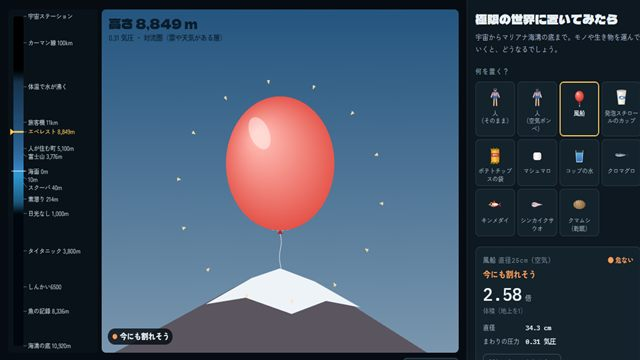
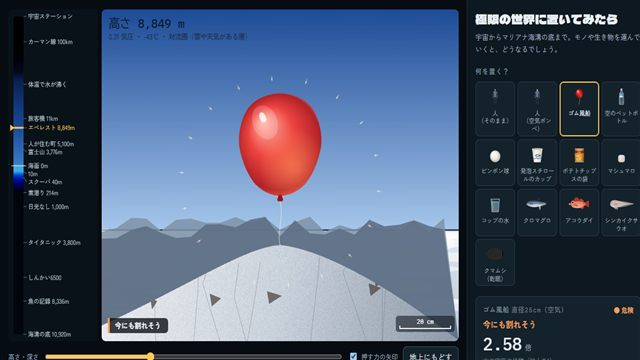
extreme v002: 実寸で質感のある絵・海の色の吸収とライト、ペットボトル・ピンポン球・アコウダイ、海の圧力の式と説明の見直し

diff --git a/extreme/launcher.html b/extreme/launcher.html
@@ -38,13 +38,15 @@ td a{color:var(--ink)}
     <h2>ターニングポイント</h2>
     <div class="cards">
       <a class="card latest" href="index.html"><span class="ver">最新</span><div><b>作業中の最新版<span class="tag">LATEST</span></b><p>いま作業フォルダにある index.html。</p></div><span class="date">—</span></a>
+      <a class="card" href="versions/v002-real/index.html"><span class="ver">v2</span><div><b>リアルな見た目と見直し</b>
+        <p>モノを実物の寸法で描き、スケールを表示。海の中は色ごとの光の吸収（赤から消える）と、深い所は潜水艇のライト。宇宙から見た地球の丸みと大気の層。空のペットボトル・ピンポン球を追加、キンメダイをアコウダイ（メヌケ）に。海の圧力を Saunders の式に（海溝の底 約1,110気圧）。素潜りの肺の小窓、体全体にかかる力。</p></div><span class="date">2026-10-06</span></a>
       <a class="card" href="versions/v001-first/index.html"><span class="ver">v1</span><div><b>最初の版（段階A）</b>
         <p>宇宙（400km）からマリアナ海溝の底（10,920m）までを1本のものさしにして、人（そのまま・空気ボンベ）・風船・発泡スチロールのカップ・ポテトチップスの袋・マシュマロ・コップの水・クロマグロ・キンメダイ・シンカイクサウオ・クマムシの11種を運ぶ。標準大気・水圧・水が沸く温度・気体の体積。割れた・縮んだを覚えている。</p></div><span class="date">2026-10-06</span></a>
     </div>
   </section>
   <section>
     <h2>すべてのバックアップ</h2>
-    <table><tr><td>v001-first</td><td><a href="versions/v001-first/index.html">v1 完成時点</a></td></tr></table>
+    <table><tr><td>v001-first</td><td><a href="versions/v001-first/index.html">v1 完成時点（v2 で手を入れる前もこれと同じ）</a></td></tr><tr><td>v002-real</td><td><a href="versions/v002-real/index.html">リアルな見た目、ペットボトル・ピンポン球・アコウダイ、海の圧力の式、説明の見直し</a></td></tr></table>
   </section>
 </main>
 </body>

diff --git a/extreme/DEVNOTES.md b/extreme/DEVNOTES.md
@@ -5,65 +5,79 @@
 宇宙（400km）からマリアナ海溝の底（10,920m）までを1本のものさしにして、モノ・生き物を運び、どうなるかを見るアプリ。企画は `PLAN.md`（`../IDEAS.md` のストック2から）。Canvas 2D、css/js に分割。
 
 ## 別セッションで続けるとき（まずここ）
-- **いまの状態**: 最新は v1（`versions/v001-first`、段階A）。入口「まなびラボ」の「物理」に載せた（サムネイル `thumbs/extreme.jpg`）。GitHub Pages には push で公開される（push はユーザー）。Artifact には公開していない。
+- **いまの状態**: 最新は v2（`versions/v002-real`、リアルな見た目と事実の見直し）。v1（`versions/v001-first`）が段階Aの最初の版。入口「まなびラボ」の「物理」に載せた（サムネイル `thumbs/extreme.jpg`）。GitHub Pages には push で公開される（push はユーザー）。Artifact には公開していない。
 - **次にやること**: ユーザーの感想しだい。次の段階は `PLAN.md` の段階B（時間をかけて置く: 減圧症・高所順応、砂漠と寒さ、宇宙に長くいるとき）。
-- **読む順**: `../RULES.md` → このファイル → 下の「ファイル構成」で関係するファイルだけ。モノを足す・直すなら `js/things.js` だけ（絵は `js/draw.js` の `drawThing()` の表に足す）。
+- **読む順**: `../RULES.md` → このファイル → 下の「ファイル構成」で関係するファイルだけ。モノの中身（数値・文章）は `js/things.js`、絵は `js/draw.js` の `drawThing()` の表と各 `drawXxx()`。
 - **動かし方**: ユーザーはルートの `start.bat`。Claude は `.claude/launch.json` の `apps`〜`apps-4`（8765〜8768）のどれか空いているもので `http://localhost:<port>/extreme/`。
-- **デバッグ用**: `window.__ex` — `S`（`z` いまの高さ m、`zTarget`、`key`、`mem` モノの記憶）、`setThing(key)`、`go(z, true)`（一気に運ぶ。途中も通す）、`goTo(z)` と `advance(秒)`（Browser ペインが裏だと rAF が止まるので、これで進める）、`state()`、`envAt(z)`、`err`（例外。`window.__exErr`）。
+- **デバッグ用**: `window.__ex` — `S`（`z` いまの高さ m、`zTarget`、`key`、`mem` モノの記憶、`arrows`）、`setThing(key)`、`go(z, true)`（一気に運ぶ。途中も通す）、`goTo(z)` と `advance(秒)`（Browser ペインが裏だと rAF が止まり、画面の大きさも 0 になるので、確かめるときは `resize_window` で大きさを決めてから）、`state()`、`envAt(z)`、`err`（例外。`window.__exErr`）。`waterLook(d)` で海の色とモノにかける色。
 - **区切りごとに**: ① `versions/v0NN-名前/` に index.html・css・js を丸ごとコピー ② `launcher.html` にカード・表 ③ 下の「状態」 ④ 「確認のしかた」を通す ⑤ 公開前チェック → コミット（push はユーザー）。中身を変えたら入口 `../index.html` のカードの更新日も。
-- **ユーザーの好み**: 正確さ重視（記録／計算／推定を書き分ける）。ちょっと危ない・意外なモノが選べると楽しい。子どもにも読める日本語。
+- **ユーザーの好み**: 正確さ重視（記録／計算／推定を書き分ける）。**子ども向けすぎる絵はいや**（v2 で実寸・質感のある絵に。マンガ的な擬音や記号は使わない）。「深海はギュッとつぶれる」感覚がある → 気体の入った入れ物がつぶれる様子と、体全体にかかる力の数字で見せる。ちょっと危ない・意外なモノが選べると楽しい。日本語。
 
 ## ファイル構成
 
 | ファイル | 中身 | 主な名前 |
 |---|---|---|
-| `index.html` | 骨組み（doctype なし）と解説。読み込み順: world → things → draw → ui → main | `#view` `#zRange` `#btnHome` `#things` `#readout`（`#roVerdict` `#roVal` `#roGrid`）`#notes` `#place`（`#plGrid`）`#places` |
-| `css/style.css` | レイアウト（PC は右パネル360px。縦長スマホは絵を上に固定。横向きスマホは右300px）。air-flow と同じ作り | 危険度の色 `--l0`〜`--l3` |
-| `js/world.js` | 環境: 標準大気 `ISA` `THERMO` `airP()` `airT()`、海 `SEA_PPM` `SEA_T` `KD_SEA`、水の蒸気圧 `psat()` `boilAt()`、`zoneOf()`、**`envAt(z)`**、`altForPO2()`、ものさしの縮尺 `AXIS` `uOfZ()` `zOfU()`、目印 `MARKS` | `P0` `Z_TOP` `Z_BOT` `SEA_PO2` `interp()` |
-| `js/things.js` | モノ・生き物のモデル `THINGS`（HUMAN・DIVER・BALLOON・CUP・CHIPS・MARSH・WATER・TUNA・KINME・SNAIL・TARDI）。各 `model(env, mem)` が `{lvl, verdict, big, rows, notes, draw}` を返す。気体の体積 `gasRatio()`（窒素の圧縮係数 `ZAIR`）、意識を保てる時間 `TUC`、SpO2 `SPO2`、魚の共通 `fishModel()` | `f0` `f1` `f2` `fRatio` `fPlace` `fNear` `fAtm` |
-| `js/draw.js` | `fitCanvas()`、ものさし `drawStrip()`（目印は重ならないようずらす。押せる範囲 `CV.hits`）、景色 `drawScene()`（空・星・地球のふち・雲・山・海・マリンスノー・生き物の光・海溝の底）、押す力の矢印 `drawArrows()`、モノの絵 `drawThing()` と各 `drawHuman()` など、見本 `drawIcon()` | `CV` `placeCols()` `objCenter()` `NO_OUTLINE` |
-| `js/ui.js` | パネルを作る `buildUI()`、ものさしの操作 `bindCanvas()`、表示 `updatePanel()`（変わったときだけ書きかえる）、`fPa()` `fLight()` `fBoil()` | `LAST` |
+| `index.html` | 骨組み（doctype なし）と解説。読み込み順: world → things → draw → ui → main | `#view` `#zRange` `#optArrows` `#btnHome` `#things` `#readout`（`#roVerdict` `#roVal` `#roGrid`）`#notes` `#place`（`#plGrid`）`#places` |
+| `css/style.css` | レイアウト（PC は右パネル360px。縦長スマホは絵を上に固定し、スライダーは1行に。横向きスマホは右300px）。air-flow と同じ作り | 危険度の色 `--l0`〜`--l3` |
+| `js/world.js` | 環境: 標準大気 `ISA` `THERMO` `airP()` `airT()`、海の圧力 `seaP()`（Saunders）、水温 `SEA_T`、`KD_SEA`、水の蒸気圧 `psat()` `boilAt()`、`zoneOf()`、**`envAt(z)`**、`altForPO2()`、ものさしの縮尺 `AXIS` `uOfZ()` `zOfU()`、目印 `MARKS` | `P0` `Z_TOP` `Z_BOT` `SEA_PO2` `interp()` |
+| `js/things.js` | モノ・生き物のモデル `THINGS`（HUMAN・DIVER・BALLOON・BOTTLE・PINGPONG・CUP・CHIPS・MARSH・WATER・TUNA・AKOU・SNAIL・TARDI）。各 `model(env, mem)` が `{lvl, verdict, big, rows, notes, draw}` を返す。`ref` = 絵の大きさの基準（実物の m）。気体の体積 `gasRatio()`（窒素の圧縮係数 `ZAIR`）、意識を保てる時間 `TUC`、SpO2 `SPO2`、`BODY_AREA`、魚の共通 `fishModel()` | `f0` `f1` `f2` `fRatio` `fML` `fPlace` `fNear` `fAtm` |
+| `js/draw.js` | `fitCanvas()`、ものさし `drawStrip()`、空 `skyAt()` `drawSky()`（地平線の丸み・大気の層・雲・岸辺・山）、海 `waterLook()` `drawSea()`（色ごとの吸収・ライト・マリンスノー・海溝の底）、`drawScene()`（海の中はモノを別の画面 `CV.off` に描いて水の色をかける）、`drawHUD()`（場所・状態・スケール）、肺の小窓 `drawLungInset()`、矢印 `drawArrows()`、モノの絵 `drawThing()` と各 `drawHuman()` `drawBalloon()` `drawBottle()` `drawPingpong()` `drawCup()` `drawChips()` `drawMarsh()` `drawGlass()` `drawFish()`（`FISH` の輪郭）`drawTardi()`、見本 `drawIcon()` | `CV` `KW` `objFrame()` `spline()` `pat()` `NOISE` `BEADS` `NO_OUTLINE` |
+| `js/ui.js` | パネルを作る `buildUI()`、ものさしの操作 `bindCanvas()`、表示 `updatePanel()`（変わったときだけ書きかえる）、`fPa()` `fLight()` `fBoil()` | `LAST` `LVL_TXT` |
 | `js/main.js` | 状態 `S`、`passThrough()`（途中の場所を細かく通してモデルの記憶を更新）、`setThing()` `renewThing()` `goTo()` `step()` `render()`、ループ、`window.__ex` | `MOVE_U` `SUB_U` |
 
 ## しくみ
 
 ### 場所（`world.js`）
-- z（m）: + が空、− が海の深さ。z = 0 は海面（地上）。魚だけは z = 0 を水の中として扱う。
-- 空: U.S. Standard Atmosphere 1976 の層の式（86km まで）。86km より上は表（100km 3.2e-2 Pa … 400km 1.45e-6 Pa）を対数で補間。86km より上は気温を出さない。
-- 海: P = 101325 + 1025×9.80×深さ（密度一定。海溝の底で約1,084気圧、実測の約1,086 bar に近い）。水温はマリアナ海溝の近くの外洋の目安（表面27℃、1,000m 4℃、底 2.4℃）。明るさ exp(−0.023×深さ)（200m で 1%）。
+- z（m）: + が空、− が海の深さ。z = 0 は海面（地上）。魚だけは z = 0 を水の中として扱う（絵も海の中）。
+- 空: U.S. Standard Atmosphere 1976 の層の式（86km まで）。86km より上は表（100km 3.2e-2 Pa … 400km 1.45e-6 Pa）を対数で補間。86km より上は気温を出さない。エベレスト山頂の実測（33.7kPa）は標準大気（31.4kPa）より高いことを人の説明に書いた。
+- 海の圧力: Saunders (1981) の深さ→圧力の式（z = (1−c1)p − c2p²、緯度 11.35°N）を逆に解く。水深10m で 1.99 気圧、1,000m で 100.5、海溝の底で約1,113気圧。v1 の「密度一定」（約1,084気圧）から直した。
+- 水温はマリアナ海溝の近くの外洋の目安（表面27℃、1,000m 4℃、底 2.4℃）。明るさ exp(−0.023×深さ)（200m で 1%）。
 - 吸う空気の酸素分圧 = 0.2095 ×（気圧 − 体温の水蒸気 6.27kPa）。海面で 19.9kPa。
-- 水が沸く温度: Wagner–Pruss の飽和蒸気圧の式を二分法で逆に解く。611.657Pa（三重点）未満は「液体でいられない」、22.064MPa（臨界圧、約2,200m）以上は「沸かない」。
+- 水が沸く温度: Wagner–Pruss の飽和蒸気圧の式を二分法で逆に解く。611.657Pa（三重点）未満は「液体でいられない」、22.064MPa（臨界圧、約2,200m）以上は「沸かない（超臨界）」。
 - ものさしの縮尺 `AXIS`: 400→100km、100→20km、20→0km、0→300m（√で広げる）、300→10,920m の5区間。
 
 ### モノのモデル（`things.js`）
 - 閉じこめた気体の体積 = (1/気圧) × (T/288.15K) × Z(気圧)。Z は 0℃の窒素の測定値（1,000気圧で約1.94）。宇宙では 15℃ のまま。
-- 人（そのまま）: 空は SpO2 の目安・意識を保てる時間（FAA の表）・高山病の段階。気圧で体温37℃の水が沸く高さ（アームストロング限界、約19km）より上と宇宙は「約9〜12秒で意識を失う」。海は素潜り（肺 6L がボイルの法則で縮む。214m の記録）。
-- 人（空気ボンベ）: 空は酸素100%のマスク（`altForPO2()` で空気なら何mと同じか）。海はスクーバの空気（酸素分圧 1.4・1.6 気圧、窒素酔い 30m〜、空気の限界 90m）。
-- 風船: 体積 2.8 倍で割れる（推定。約9,600m）。体積が 0.33³ より小さいとゴムがたるんだ絵。
-- 発泡スチロールのカップ: 体積の 95% が泡、6気圧（約50m）より深いと泡の空気が押し縮められる。戻したあとの大きさ = いちばん縮んだ大きさ^0.8（実例の「半分くらい」に合わせた推定）。
-- ポテトチップスの袋: 窒素、袋の最大は 1.6 倍。中と外の差が 0.25 気圧で破れる（推定。約11,100m。エベレストでは「今にも破れそう」）。
+- 人（そのまま）: 空は SpO2 の目安・意識を保てる時間（FAA AC 61-107B の表。45,000ft 9〜15秒、50,000ft 6〜9秒まで）・高山病の段階。体温37℃の水が沸く高さ（約19km）より上と宇宙は「約10秒（資料により6〜15秒）」。海は素潜り（肺 6L がボイルの法則で縮む。残気量 1.5L より小さいと `squeeze` で胸が押しこまれる絵。214m の記録）。体全体にかかる力（1.8m²）も書く。
+- 人（空気ボンベ）: 空は酸素100%のマスク（`altForPO2()` で空気なら何mと同じか）。海はスクーバの空気（酸素分圧 1.4・1.6 気圧、窒素酔い 30m〜、90m より深いと「きわめて危険」）。服は高さ・気温でダウン、海ではウェットスーツ。
+- 風船: 体積 2.8 倍で割れる（推定。約9,600m）。体積 0.04 より小さいと、ゴムがたるんでしわの中に空気の玉が残る絵（海溝の底で中の空気は直径 3.0cm）。
+- 空のペットボトル（500mL・ふたをした）: 水の中では中の空気の体積までへこむ（下限 5%）。水深10m で 261mL、海溝の底で 0.89mL。戻すと形は戻り、折れじわ `crease` が残る。空・宇宙では中の1気圧が押すだけ。
+- ピンポン球: 中と外の差が 3.5 気圧（水深約36m）でへこむ（推定。うすい殻の座屈の計算 約13気圧に、形のゆがみで弱くなる分を見こんだ）。へこんだ後は中の空気の体積まで（下限 0.03）、戻しても 0.82 のまま。
+- 発泡スチロールのカップ: 体積の 95% が泡、6気圧（約50m）より深いと泡の空気が押し縮められる。戻したあとの大きさ = いちばん縮んだ大きさ^0.8（海溝の底 3.8cm → 戻して 4.6cm）。
+- ポテトチップスの袋: 窒素、袋の最大は 1.6 倍。中と外の差が 0.25 気圧で口が開く（推定。約11,100m）。水の中でしぼむとチップスの形が浮き出る絵。
 - マシュマロ: 泡 6割、泡が 3 倍で破れる（約10,100m）。破れた後は戻すと 0.55 倍のしわしわ。
-- コップの水（20℃）: 気圧が 20℃の蒸気圧 2.3kPa より低い（約25km より上）と沸く。三重点より低いと凍る。海では Tait の式で縮む（海溝の底で約4%）。
-- 魚: すむ深さ `range`。うきぶくろのある魚は、範囲の端の圧力 ÷ いまの圧力 でふくらみ、4倍以上で「胃が口から」。8,200m より深いと TMAO の限界の説で「すめない」。陸・宇宙では息ができない。
-- クマムシ（乾眠）: どこでも平気（宇宙10日・6,000気圧の記録）。
-- `mem`: いちばん高い・深い所、割れた場所 `burstZ`・`popZ`、カップの `cupMin`、水の `boiled`。モノを選び直す・「新しいものにとりかえる」と消え、地上から今の場所まで運び直す（途中で割れるものは割れる）。
+- コップの水（20℃）: 気圧が 2.3kPa より低い（約26km より上）と沸く。三重点より低いと凍る。海では Tait の式で縮む（海溝の底で約4%）。
+- 魚: すむ深さ `range`。うきぶくろのある魚は、範囲の端の圧力 ÷ いまの圧力 でふくらみ、4倍以上で「胃が口から」。アコウダイは目も飛び出す（`eyes`）。8,200m より深いと TMAO の限界の説で「すめない」。陸・宇宙では息ができない。クロマグロは 0〜550m（大西洋の仲間は 1,000m 超えの記録）、アコウダイ 300〜600m、シンカイクサウオ 6,000〜8,100m。
+- クマムシ（乾眠）: どこでも平気（宇宙10日・約6,000気圧の記録）。
+- `mem`: いちばん高い・深い所、割れた場所 `burstZ`・`popZ`・`buckleZ`、カップの `cupMin`、ボトルの `crease`、水の `boiled`。モノを選び直す・「新しいものにとりかえる」と消え、地上から今の場所まで運び直す（途中で割れるものは割れる）。
+
+### 絵（`draw.js`）
+- モノは実寸（m）で描く。`objFrame()` で `pm = 2R / ref`（R は画面の大きさから）。右下のスケールは 1・2・5 の切りのよい長さ。人・カップなどは足もと、魚とクマムシは中央が原点。
+- 海の中の色: 水が光を吸う強さ `KW` = 赤 0.40・緑 0.07・青 0.025 /m（澄んだ外洋の目安）。モノの色には、上から届く深さ d と見ている距離 1.5m の分の吸収を、いちばん残る色を1にして 0.35 乗（目の慣れ）したものをかける。明るさは青の届き方の 0.4 乗。150〜260m で潜水艇のライトに切りかえ（ライトは見る距離 1.5m の吸収だけ）。
+- 空: 天頂と地平線の色の表 `SKY_TAB`。地平線の見下ろす角度 `acos(R/(R+h))` から丸みを出す。9km より上は地球（海と雲）と大気のうすい層。星は 60km より上で少しだけ（写真では日なたの地球と星はふつう同時に写らないため控えめ）。
+- 点滅は入れない（生き物の光は小さな点がゆっくり明るくなって消える、泡は小さく流れるだけ）。
 
 ## ハマったところ
 - 移動を1コマ分まとめてモデルに渡すと、ドラッグで一気に宇宙へ行ったとき「割れた場所 400km」になる。`passThrough()` でものさしの 0.0005 刻みに途中を通す（割れた場所は 100m 単位の「約」で表示）。
-- Browser ペインが裏だと rAF が止まる。確認は `__ex.go()` と `__ex.advance()`。
+- Browser ペインが裏だと rAF が止まり、`innerWidth` が 0 になる。画面の大きさが小さすぎると `arcTo` に負の半径が入って止まった（`rr()` で 0 以上にした）。確かめるときは `resize_window` で大きさを決める。
+- sed で JS を書きかえたら改行が消えて、コメントの後ろにコードがつながった（RULES 6 のとおり、複数行は Edit で）。
+- 海の色を物理どおり（目の慣れなし）にすると、水深5m で赤い魚が真っ青になって不自然だった。0.35 乗の慣れを入れた。
 
 ## 確認のしかた（変更のたびに）
 1. 読み込み直後にエラーなし（`__ex.err` が undefined）。開いたときは風船・海面。
-2. 全部のモノを順に運ぶ: `for (const k of THINGS.map(t=>t.key)) { __ex.setThing(k); for (const z of [0,3776,8849,19500,400000,0,-10,-40,-214,-1000,-10920,0]) { const r=__ex.go(z,true); console.log(k,z,r.st.lvl,r.st.verdict); } }` → エラーなし。
-3. 目安（変えていなければ）: 風船は約9,600m で割れ、エベレストで体積 2.58 倍。袋は約11,100m で破れる。マシュマロは約10,100m で泡が破れ、地上で 0.55 倍。カップは海溝の底で 3.8cm、地上に戻して 4.6cm。人（そのまま）は富士山で酸素 60%・SpO2 86%、エベレストで 26%。キンメダイは水深10m でうきぶくろ 10.5 倍。水は富士山で 87℃、エベレストで 70℃ で沸く。
-4. ものさしの目印の名前を押すとそこへ運ぶ（`__ex.S.zTarget` が変わる）。帯のドラッグ・下のスライダーでも動く。
-5. 幅 375px（縦長）で絵が上に貼りつき、横スクロールなし（scrollWidth = 375）。
-6. 点滅なし（生き物の光は小さな点がゆっくり明るくなって消えるだけ。水の泡も小さい）。
-7. 入口に載せる変更をしたら、doctype なし（互換モード）と doctype あり（標準モード）で全要素の位置を比べる。
+2. 全部のモノを順に運ぶ: `for (const k of THINGS.map(t=>t.key)) { __ex.setThing(k); for (const z of [0,3776,8849,19500,400000,0,-10,-40,-214,-1000,-10920,0]) __ex.go(z,true); }` → `__ex.err` が undefined。
+3. 目安（変えていなければ）: 風船は約9,600m で割れ、エベレストで体積 2.58 倍、海溝の底で中の空気の玉 3.0cm。ペットボトルは水深10m で 261mL、海溝の底で 0.89mL、戻すと「形が戻った（しわは残る）」。ピンポン球は 30m で「今にもへこみそう」、約36m でへこみ、戻して 0.82。カップは海溝の底で 3.8cm、戻して 4.6cm。素潜り 300m で肺 0.19L。アコウダイは海面でうきぶくろ 30.8 倍。`envAt(-10920).atm` ≈ 1113、`envAt(-10).atm` ≈ 1.99。
+4. 見た目（`resize_window` 1280×760 で）: 水深5m で赤い魚が茶色がかって見え、250m より深い所は黒い背景にライト。宇宙（400km）で地球の丸みと大気の層。エベレストで雪の頂上と雲海。
+5. ものさしの目印の名前を押すとそこへ運ぶ（`__ex.S.zTarget` が変わる）。帯のドラッグ・下のスライダーでも動く。「押す力の矢印」で矢印が消える。
+6. 幅 375px（縦長）で絵が上に貼りつき、スライダーが1行、横スクロールなし（scrollWidth = 375）。素潜りの肺の小窓と光の注記が場所の文字に重ならない。
+7. 点滅なし。
+8. 入口に載せる変更をしたら、doctype なし（互換モード）と doctype あり（標準モード）で全要素の位置を比べる。
 
 ## 状態
 - 2026-10-06 v1（`versions/v001-first`）: 段階A。11種、目印16、場所と状態の数字のカード、記録／計算／推定の書き分け、解説6つ、入口に追加。
+- 2026-10-06 v2（`versions/v002-real`）: ユーザーの「子ども向けすぎる」「深海はもっとギュッとつぶれる気がする」「嘘がないか」を受けて。絵を実寸・質感ありに描き直し（スケール、海の色の吸収、潜水艇のライト、地球の丸み）。空のペットボトル・ピンポン球を追加（気体を閉じこめた入れ物がつぶれる）、キンメダイ → アコウダイ（引き上げると目が飛び出す「メヌケ」）。体全体にかかる力、素潜りの肺の小窓と胸が押しこまれる絵、解説「深海で『ギュッ』とつぶれるもの、つぶれないもの」。事実の見直し: 海の圧力（Saunders）、意識を保てる時間の表（45,000ft・50,000ft）、宇宙での意識（約10秒、資料により6〜15秒）、空気で潜れる深さの言い方、クロマグロのすむ深さ（大西洋の仲間の記録と分けた）、クマムシの実験（6,000気圧、時間は書かない）、エベレストの実測の気圧、超臨界水、状態の言葉（だいじょうぶ → 問題なし など）。
 
 ## 今後の案
 - 段階B・C は `PLAN.md`。
 - 宇宙の日なた・日かげの温度（モノの温度）、海の「しんかい6500」の中から見る。
+- つぶれたペットボトルを横から見た絵（実物は平たくつぶれるので、正面と横で見え方がちがう）。

diff --git a/extreme/PLAN.md b/extreme/PLAN.md
@@ -6,13 +6,13 @@
 `../IDEAS.md` のストック2から。**深海の高い圧力**と**宇宙空間**で、ものや生き物がどうなるかを見る。
 宇宙（高さ400km）から地上をへて、マリアナ海溝の底（深さ約10,920m）までを**1本のものさし**にして、選んだモノ・生き物を上げ下げする。
 
-- 選べるものに、性質のちがうモノと生き物を入れる: 人（そのまま／空気ボンベ）、風船、発泡スチロールのカップ、ポテトチップスの袋、マシュマロ、コップの水、魚（マグロ・キンメダイ・シンカイクサウオ）、クマムシ。
+- 選べるものに、性質のちがうモノと生き物を入れる: 人（そのまま／空気ボンベ）、ゴム風船、空のペットボトル、ピンポン球、発泡スチロールのカップ、ポテトチップスの袋、マシュマロ、コップの水、魚（クロマグロ・アコウダイ・シンカイクサウオ）、クマムシ。（v2 でペットボトル・ピンポン球を足し、キンメダイをアコウダイに替えた）
 - 「中に気体があるものは縮む・ふくらむ、ないものはほとんど変わらない」がいちばんの発見になるようにする。
 - 体内ダイブ・免疫と同じく、**場所の数値と体の数値が動きながら変わっていく**見せ方にする。
 - 一度こわれた・縮んだものは、地上に戻してもそのまま（風船が割れる、カップが縮んだまま、マシュマロがしわしわ）。「持ち帰る」体験。
 
 ## 見せる量（本物の式・データ）
-- 気圧: 空は標準大気（US Standard Atmosphere 1976。86km より上は表の値）。海は 10m ごとに約1気圧（海水の密度 1.025 g/cm³）。
+- 気圧: 空は標準大気（US Standard Atmosphere 1976。86km より上は表の値）。海は 10m ごとに約1気圧（v2 から Saunders 1981 の深さと圧力の式。海溝の底で約1,110気圧）。
 - 気温・水温: 標準大気の気温。海はマリアナ海溝の近くの外洋の水温の目安。
 - 吸う空気の酸素（酸素分圧）、水が沸く温度（水の蒸気圧の式 Wagner–Pruss を逆に解く）、日光の明るさ（海は減り方の係数）。
 - モノ: 中の気体の体積（ボイル・シャルルの法則。深海では窒素の実測の圧縮係数で補正）。こわれる所は推定の値を書く。
